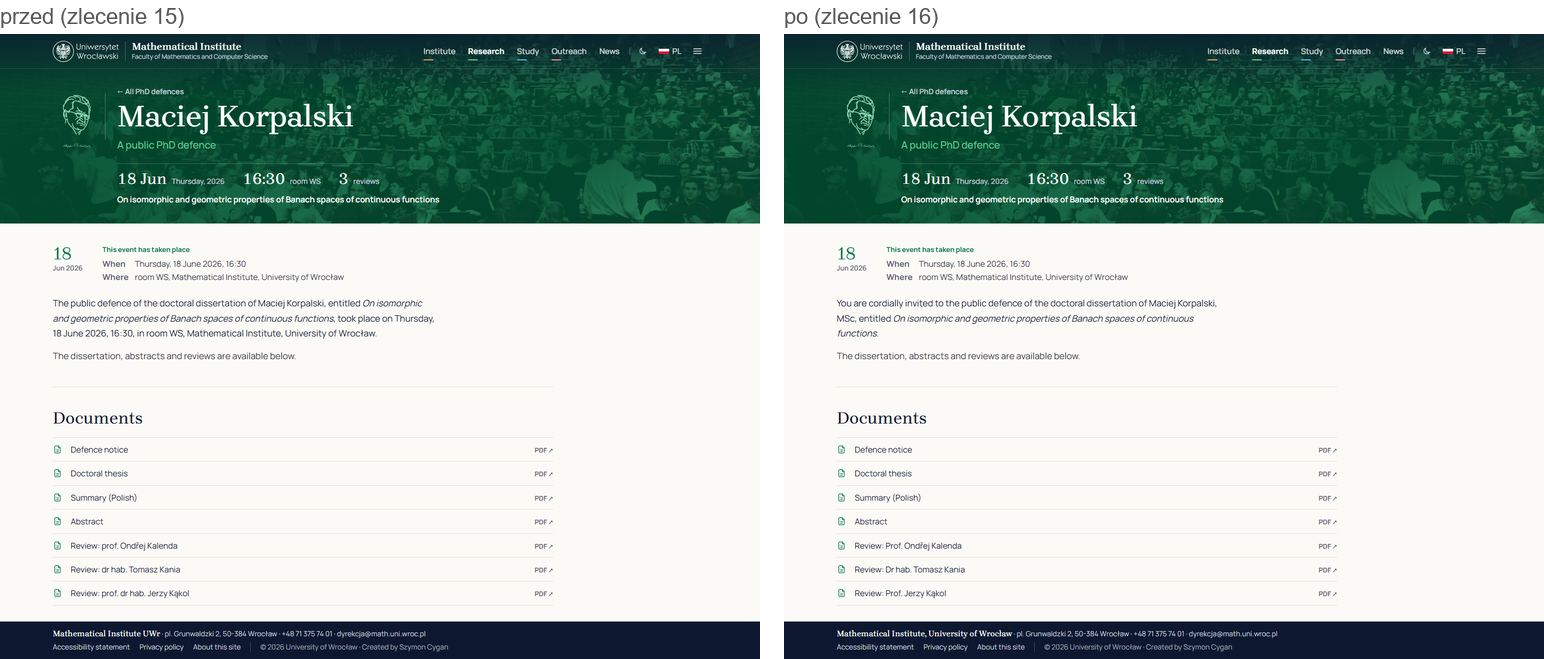
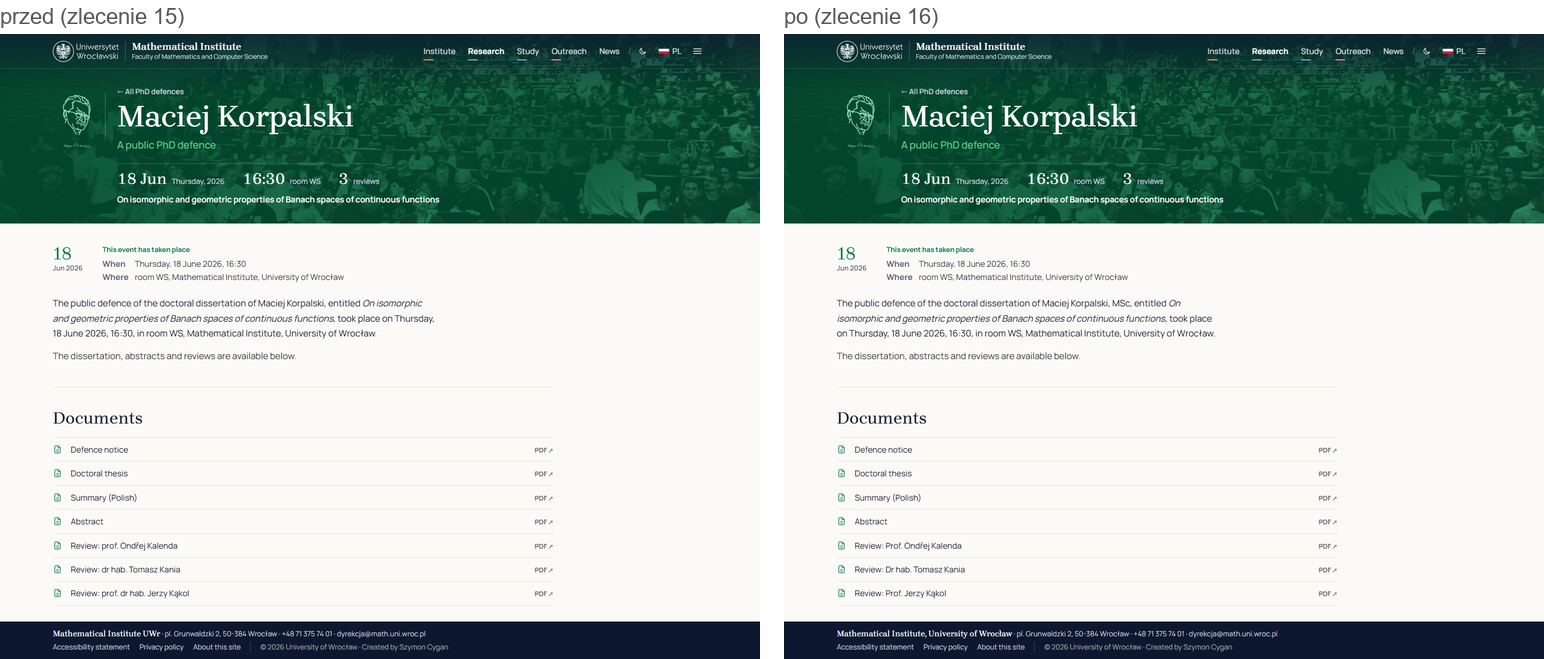
Zlecenie 16: obrony bez tresc_en (decyzja właściciela), łatka i raport

Changed region(s): [[0.5285, 0.4552, 0.8083, 0.5159]]

diff --git a/RAPORT-ZLECENIE-16.md b/RAPORT-ZLECENIE-16.md
@@ -1,13 +1,12 @@
 # Raport: zlecenie 16 — wersja angielska (5.11.2026)
 
-Gałąź: `wyglad/zlecenie-16` (z `9fd255ee`, ostatniego commita zlecenia 15), 12 commitów + commit raportu, **bez pushowania**. Repozytoria treści: 34 commity w 20 klonach, też bez pushowania. Zlecenie: `.przekazanie/zlecenia/16-wersja-angielska.md`.
+Gałąź: `wyglad/zlecenie-16` (z `9fd255ee`, ostatniego commita zlecenia 15), 12 commitów + 2 commity raportu (drugi z decyzją o obronach), **bez pushowania**. Repozytoria treści: 35 commitów w 20 klonach, też bez pushowania. Zlecenie: `.przekazanie/zlecenia/16-wersja-angielska.md`.
 
 **Do Twojej decyzji albo działania**
 
-1. **Minione obrony: zdecyduj, czy zostawić „You are cordially invited”.** Łatka z `dok/en/latki` dodaje `tresc_en` do ośmiu obron (5 prawdziwych, 3 testowe), które do tej pory dostawały tekst z kodu w poprawnym czasie („… took place on …”). Teraz siedem minionych obron zaprasza na wydarzenie, a tuż obok widać „This event has taken place”. Tłumaczenie jest wierne, bo po polsku też stoi „Zapraszamy”. Łatkę nałożyłem zgodnie ze zleceniem. **Zalecam usunięcie tych ośmiu pól `tresc_en` przed pushem:** wtedy wraca tekst z kodu, który sam dobiera czas. Napisz „usuń” albo „zostaw”.
-2. **Wklej nowy skrypt e-maili do Google (D16).** Zmiana w repozytorium nie wdraża się sama. Otwórz projekt na https://script.google.com, zastąp zawartość `Code.gs` plikiem `skrypty/powiadomienia/Code.gs`, zapisz i wybierz **Wdróż → Zarządzaj wdrożeniami → Edytuj → Nowa wersja → Wdróż**. Adres `/exec` się nie zmienia. Dopóki tego nie zrobisz, e-maile linkują do `/powiadomienia/`, a ta strona działa dalej i jest dwujęzyczna.
-3. **Przejrzyj tłumaczenia:** D4, D6, D8 (tabele niżej) oraz 31 nazw przedmiotów i notki patronów (załączniki na końcu). Tych dwóch ostatnich nie zatwierdziłeś od zalecenia 12.
-4. **Push czeka na Twoje słowo.** 20 repozytoriów treści i Web-Core; lista niżej.
+1. **Wklej nowy skrypt e-maili do Google (D16).** Zmiana w repozytorium nie wdraża się sama. Otwórz projekt na https://script.google.com, zastąp zawartość `Code.gs` plikiem `skrypty/powiadomienia/Code.gs`, zapisz i wybierz **Wdróż → Zarządzaj wdrożeniami → Edytuj → Nowa wersja → Wdróż**. Adres `/exec` się nie zmienia. Dopóki tego nie zrobisz, e-maile linkują do `/powiadomienia/`, a ta strona działa dalej i jest dwujęzyczna.
+2. **Przejrzyj tłumaczenia:** D4, D6, D8 (tabele niżej) oraz 31 nazw przedmiotów i notki patronów (załączniki na końcu). Tych dwóch ostatnich nie zatwierdziłeś od zalecenia 12.
+3. **Push czeka na Twoje słowo.** 20 repozytoriów treści i Web-Core; lista niżej.
 
 Stan sprawdzenia:
 
@@ -40,6 +39,7 @@ Stan sprawdzenia:
 | D19 daty po angielsku | zrobione | — | Web-Studia |
 | D20 „(in Polish)” w menu | zrobione | `bf562674` | Web-Ustawienia |
 | 17 łatek z `dok/en/latki` i łatki 14, 15 | nałożone | — | 20 repozytoriów |
+| Obrony bez `tresc_en` (Twoja decyzja po raporcie) | zrobione | ten commit (łatka) | Web-Aktualnosci |
 | Łatki tego zlecenia | zapisane | `ec0b0a4a` | `dok/latki/zlecenie-16/` |
 
 ## Kryteria odbioru
@@ -48,12 +48,14 @@ Stan sprawdzenia:
 |---|---|
 | `/en` bez polskich stopni przy nazwiskach (poza „Dr hab.”) | skan całego `/en`: zostały 3 trafienia, wszystkie w cytowaniach bibliograficznych na `/en/nauka/publikacje/2006` i `/2018` („prof. E. Wirsinga”, „ks. dr hab. Adam Olszewski, prof. UP JPII”). To cytaty, więc ich nie ruszałem |
 | Poprawne tytuły stron | „Study · Mathematical Institute, University of Wrocław”; `og:site_name` tak samo; polskie strony bez zmian („Instytut · Instytut Matematyczny UWr”) |
-| Łatki w klonach (commity bez pushu) i na nakładce | 34 commity w 20 klonach, wszystkie klony czyste; każda łatka z `dok/latki/zlecenie-16/` zgadza się z ostatnim commitem klonu |
+| Łatki w klonach (commity bez pushu) i na nakładce | 35 commitów w 20 klonach, wszystkie klony czyste; każda łatka z `dok/latki/zlecenie-16/` zgadza się ze stanem klonu |
 | Kopia oryginałów nakładki | `.przekazanie/robocze/nakladka-przed-16/` |
 | Build, `astro check`, `sprawdz_tresci.py` | bez nowych błędów, OK (wyżej) |
 | Zrzuty `/en` przed/po | niżej; `dok/en/POSTEP.md` nie zawiera nazwanej listy stron, więc wybrałem 20 reprezentatywnych |
 
 ## Co warto wiedzieć o wykonaniu
+
+**Obrony (Twoja decyzja „Usuń”, 5.11).** Łatka z `dok/en/latki` dodawała `tresc_en` do ośmiu obron (5 prawdziwych, 3 testowe), przez co minione obrony zapraszały „You are cordially invited”, a obok było „This event has taken place”. Pola usunąłem, więc tekst składa widok z danych obrony. W zbudowanej stronie siedem minionych obron ma „… took place on …”, a jedna przyszła (testowa, 27.11) nadal zaprasza. Pole `tresc_en` zostaje w formularzu CMS, ale wpisany tam tekst znów zastąpi ten z kodu.
 
 **D1.** Osobna reguła dla „dr, prof. UWr”, której zlecenie nie wymienia: daję „Dr” (pytanie 2). Na stronie obrony „X, MSc” stoi w tekście, a nagłówek to samo nazwisko, bo tak wygląda on po polsku.
 
@@ -112,7 +114,7 @@ Z 380 polskich stron zmieniło się 17, wszystkie zgodnie ze zleceniem, i doszł
 
 | Repozytorium | Commity (od najstarszego) | Co zawierają |
 |---|---|---|
-| Web-Aktualnosci | `c803e95`, `6b42382` | tłumaczenia z `dok/en/latki`; D4 (tytuły w nawiasach), D8 (nazwy konkursów, pisownia „Krok w Przyszłość” także w polu polskim), stopnie z D1 |
+| Web-Aktualnosci | `c803e95`, `6b42382`, `feeacb9` | tłumaczenia z `dok/en/latki`; D4 (tytuły w nawiasach), D8 (nazwy konkursów, pisownia „Krok w Przyszłość” także w polu polskim), stopnie z D1; obrony bez `tresc_en` z tamtej łatki |
 | Web-Instytut | `dc44f49` | tylko łatka z `dok/en/latki`: naprawiony martwy link w „Wykładzie Terence’a Tao” (PL i EN) |
 | Web-Nauka | `13745e4` | D11: „Szklarska Poręba” w polu `miejsce` |
 | Web-Popularyzacja | `53f6556` | tylko łatka ze zlecenia 15: dane działu, cztery strony, formularz CMS |
@@ -137,7 +139,7 @@ Commity mają opis „Wersja angielska: tłumaczenia (zlecenie 16)”, osobno dl
 
 ## Łatki i nakładka
 
-- `dok/latki/zlecenie-16/`: 14 łatek względem stanu po `dok/en/latki`, opis w `README.md`.
+- `dok/latki/zlecenie-16/`: 14 łatek względem stanu po `dok/en/latki`, opis w `README.md`. Łatka Web-Aktualnosci cofa też `tresc_en` obron dodane przez `dok/en/latki`, więc kolejność nakładania ma znaczenie. Samego `dok/en/latki` nie zmieniałem.
 - Nakładka zawiera łatki 14, 15, `dok/en/latki` i 16 (tylko `src/`).
 - **Przywracanie nakładki:** skopiuj zawartość `.przekazanie/robocze/nakladka-przed-16/src/` na `src/`. Plik z końcówką `.BRAK.txt` oznacza, że przed zleceniem pliku nie było, więc przywrócenie to usunięcie (dotyczy `src/content/strony/o-stronie.md`).
 - Nowe pole `jezyk` jest opisane w `.przekazanie/pola-do-cms.md`.
@@ -306,7 +308,7 @@ Ciemny motyw (1920 px), po zmianach:
 
 ## Pytania
 
-1. **Minione obrony** (punkt 1 na górze): usunąć osiem pól `tresc_en`? Po polsku jest ten sam problem („Zapraszamy” po terminie), ale tego zlecenie nie obejmuje.
+1. **Minione obrony po polsku:** na polskich stronach nadal stoi „Zapraszamy na publiczną obronę” po terminie. Ten tekst pochodzi z treści wpisów, nie z kodu, i zlecenie go nie obejmuje. Czy zrobić dla wersji polskiej to samo, co dla angielskiej (tekst z danych, dobierający czas)?
 2. **„dr, prof. UWr”:** zlecenie opisuje tylko „dr hab. X, prof. UWr → Prof. X”. Daję „Dr X”. Czy tak zostawić?
 3. **„Mathematical Analysis” czy „Advanced calculus”:** USOS używa „Advanced calculus” i tak jest teraz w nawiasach z D6, a strona skryptów i tabela struktury w „First year” mają „Mathematical Analysis”. Czy ujednolicić? Na razie zostawiłem, bo D6 każe trzymać nazwę z USOS przy nazwie polskiej, a tamte miejsca to nie są nazwy z USOS.
 4. **„Iuvenes Wratislaviae”:** przetłumaczyłem jako „Young People of Wrocław”. To moje tłumaczenie; nie sprawdzałem, czy istnieje oficjalna angielska nazwa. Zostawić je czy samą nazwę łacińską?

diff --git a/dok/latki/zlecenie-16/README.md b/dok/latki/zlecenie-16/README.md
@@ -4,7 +4,7 @@ Względem stanu po łatkach z `dok/en/latki/` (a w repozytoriach, których dotyc
 
 | Łatka | Co zmienia |
 |---|---|
-| `Web-Aktualnosci.patch` | 21 wpisów: D4 (tytuły w nawiasach), D8 (nazwy konkursów, pisownia „Krok w Przyszłość” także w polu polskim), stopnie z D1 |
+| `Web-Aktualnosci.patch` | 21 wpisów: D4 (tytuły w nawiasach), D8 (nazwy konkursów, pisownia „Krok w Przyszłość” także w polu polskim), stopnie z D1. Osiem obron: usuwa `tresc_en` dodane przez `dok/en/latki` (decyzja właściciela; tekst angielski składa widok i sam dobiera czas) |
 | `Web-Nauka.patch` | D11: „Szklarska Poręba” w `2020-model-theory-conference.md` |
 | `Web-Sem-*.patch` (9) | D10: pole `jezyk` w `.pages.yml`; w Dyskretnej Analizie Harmonicznej i Równaniach Różniczkowych także `jezyk: pl` przy trzech referatach |
 | `Web-Spec-Nauczycielska.patch` | D8: „Krok w Przyszłość” (Step into the Future) |
